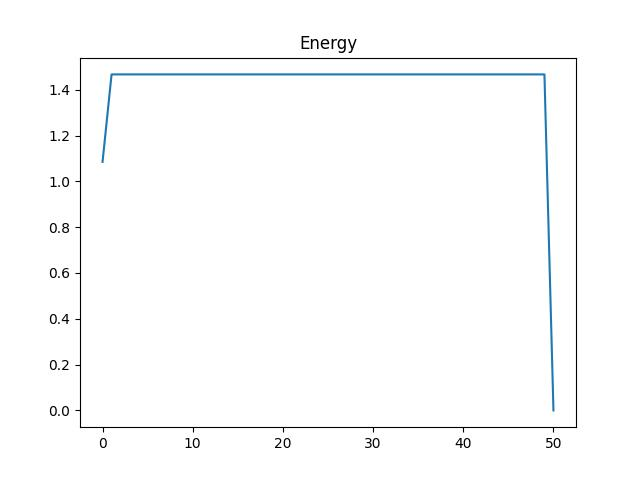
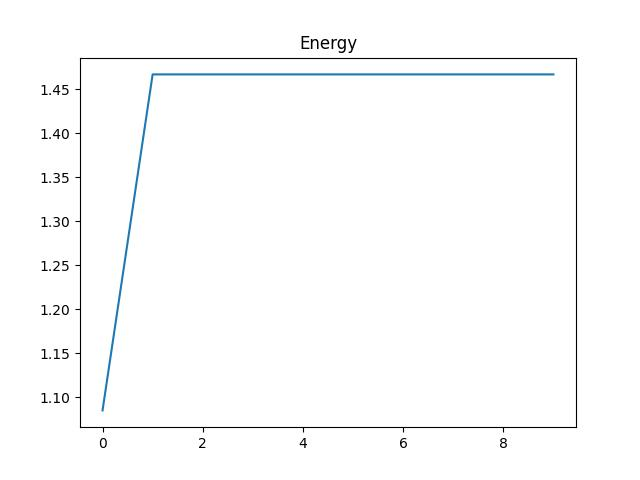
Bug fix

diff --git a/demo_control_polycopie2023.py b/demo_control_polycopie2023.py
@@ -32,8 +32,8 @@ def your_optimization_procedure(domain_omega, spacestep, omega, f, f_dir, f_neu,
 
     k = 0
     (M, N) = np.shape(domain_omega)
-    numb_iter = 50
-    energy = np.zeros((numb_iter+1, 1), dtype=np.float64)
+    numb_iter = 10
+    energy = np.zeros((numb_iter, 1), dtype=np.float64)
 
     while k < numb_iter:
         print('---- iteration number = ', k)
